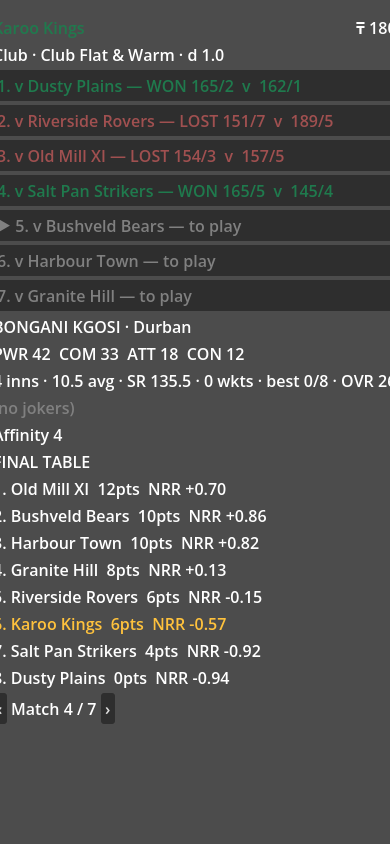
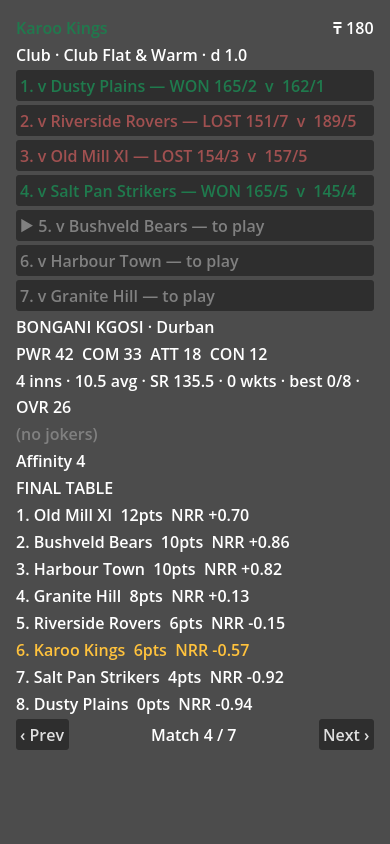
Season Hub: fix edge-clipping layout (ScrollContainer + autowrap)
Nico flagged the hub clipped on both edges (first char of every row, the ₸
chip, OVR) and didn't fill the panel. Wrap the tree in a vertical-only
ScrollContainer (horizontal_scroll_mode=0 constrains child width), explicit
offsets, autowrap on long labels + fixture buttons, clip_text on the title,
full-width scrub bar. Node path Margin/Root -> Scroll/Margin/Root. Re-rendered
screenshot is clean both margins; career line wraps. 580 green.

diff --git a/docs/superpowers/specs/2026-06-15-season-hub-replay-design.md b/docs/superpowers/specs/2026-06-15-season-hub-replay-design.md
@@ -147,8 +147,9 @@ splash/resume routing changes · gear/info corner-control behaviour · the econo
 - **GDScript gotcha:** a ternary assigned with `:=` can't be type-inferred (`Cannot infer the type of "rr_for"`); needs an explicit `var x: float = (...) if c else y`. (Hit on the NRR lines.)
 - **Title shows team name only** (not "Team · Country") — the country accent colour carries the locale; keeps the ₸ chip from being pushed off-screen.
 
-**Known cosmetic polish (deferred to the art/margin-parity rung, per §-scope "structural not pixel-perfect"):**
-- A ~16px right-edge clip trims the ₸ chip ("₸ 180" → "₸ 18") and a thin left inset — the `MarginContainer` insets aren't visually landing in the preview window. Functional, not faithful; fold into the hi-fi styling pass.
+**Layout fix (same-day follow-up after Nico flagged "does not render completely"):** the first cut clipped content on **both** edges (first char of every row, ₸180→₸18, OVR 26→OVR 2) and didn't fill the panel. Root cause: the hand-authored `MarginContainer` insets weren't landing and long labels overflowed the phone width. **Fix:** wrapped the tree in a `ScrollContainer` (vertical-only; `horizontal_scroll_mode=0` constrains child width so nothing overflows) with explicit `offset_*=0` on the root, `autowrap_mode` on every long label + the fixture buttons, `clip_text` on the title (chip keeps its space), and a full-width "‹ Prev · Match N/7 · Next ›" bar. Re-rendered `season-hub-built-v1.png` — clean both margins, the career line wraps to two lines, all 8 table rows show. Node path moved `Margin/Root` → `Scroll/Margin/Root` (script `_root` + scene tests updated). 580 still green.
+
+**Known polish still deferred (art-parity rung, per §-scope "structural not pixel-perfect"):**
 - Portraits/rarity-glow/gradient chrome are approximated (solid colours / text) — art parity is its own rung (§ visual-fidelity scope).
 - "best 0/8" shows for a non-bowling build (0 wickets, fewest runs) — honest but reads oddly; a "did-not-bowl" sentinel is a nicety for later.
 
